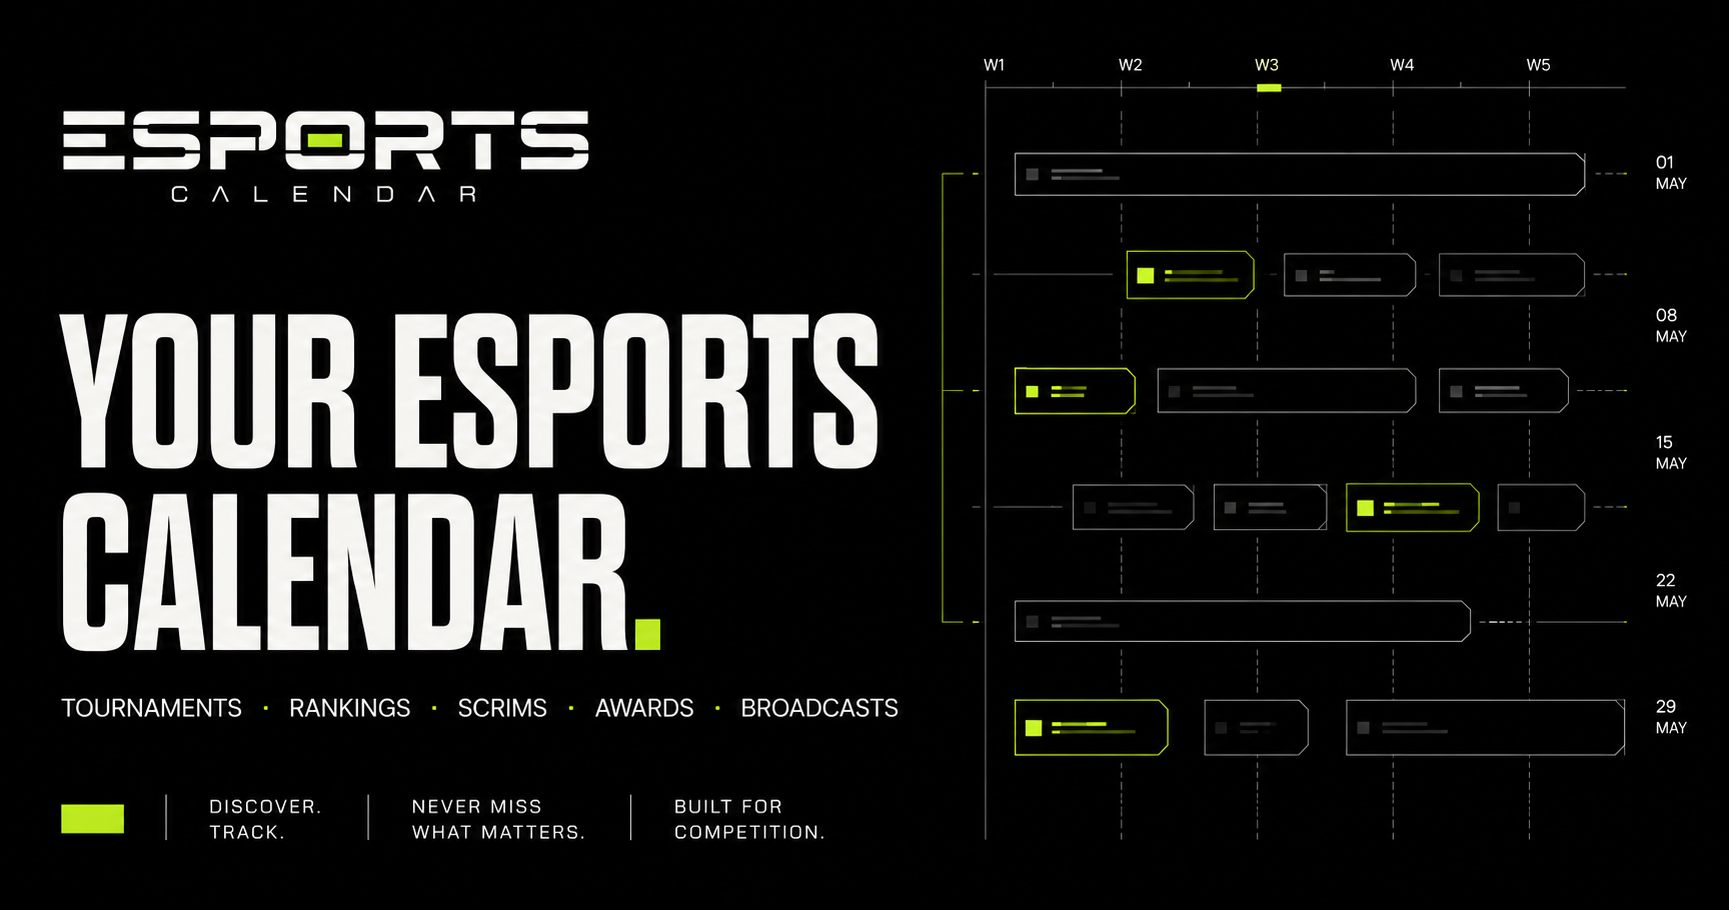
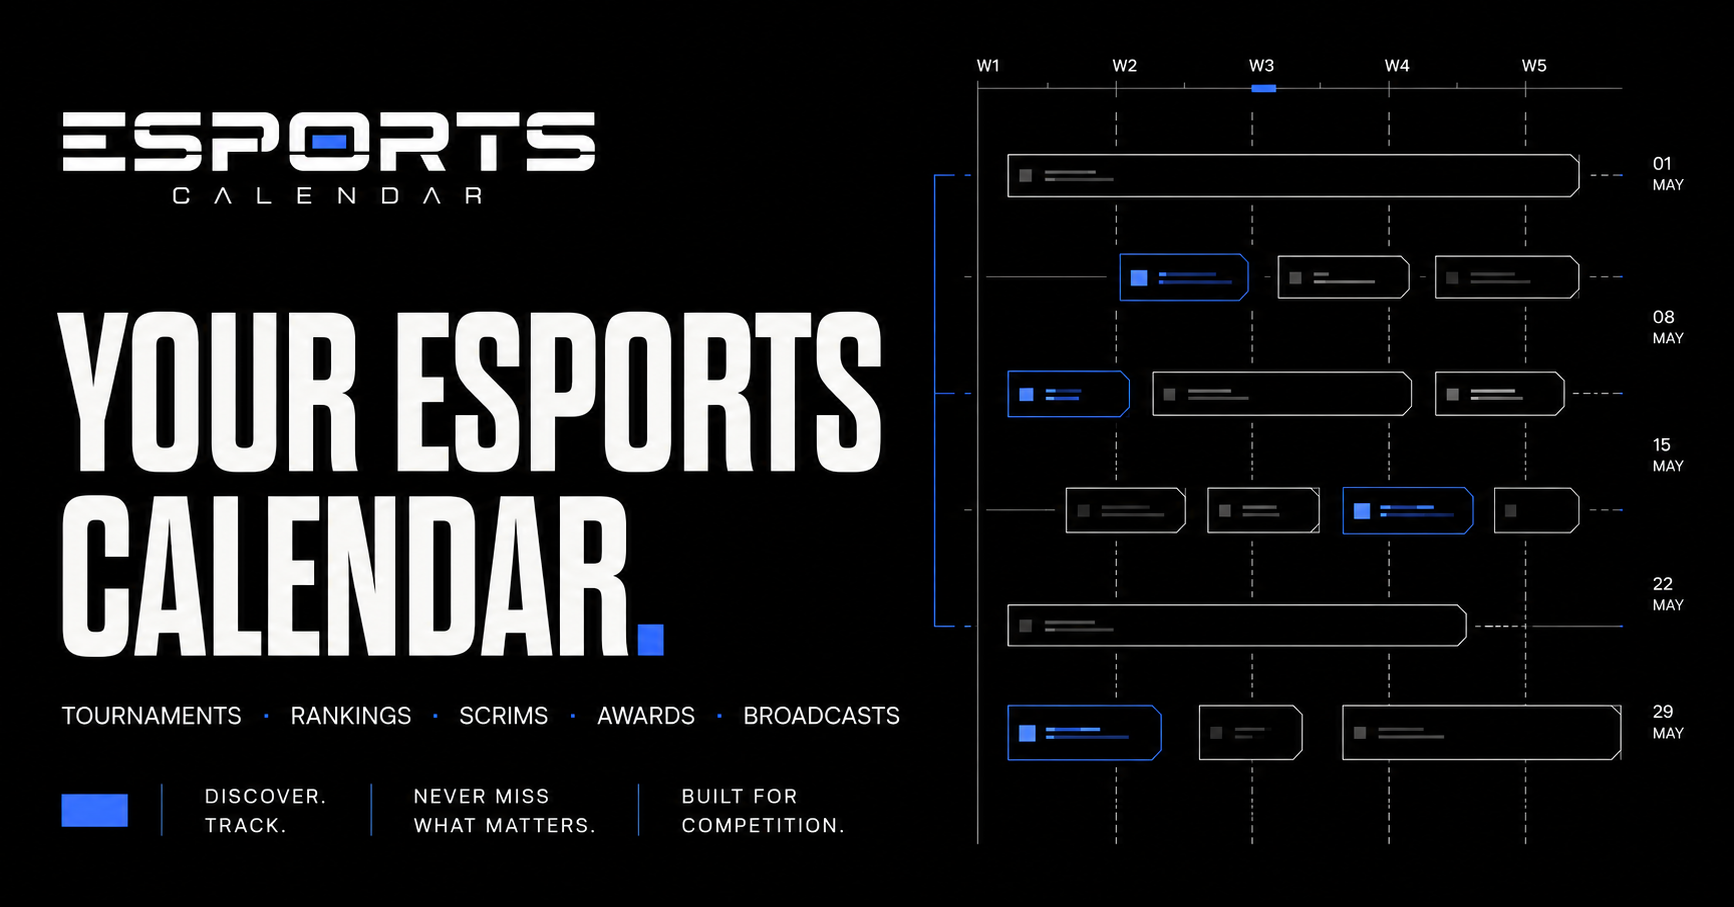
Improve social sharing SEO and Discord teasers

diff --git a/src/lib/discord.ts b/src/lib/discord.ts
@@ -1,19 +1,11 @@
-import { getEventTimes, getEventTimezone } from "@/lib/eventTiming";
 import { CalendarEvent } from "@/types/event";
 
+const SITE_URL = "https://esportscalendar.org";
 const DISCORD_DEFAULT_AVATAR_URL = "https://res.cloudinary.com/id8ciytn/image/upload/v1786622214/esports-calendar/discord/avatar-v2.png";
-const DISCORD_DEFAULT_BANNER_URL = "https://res.cloudinary.com/id8ciytn/image/upload/v1786622216/esports-calendar/discord/banner-v2.jpg";
 
 function getSiteUrl(): string {
-  return (process.env.NEXT_PUBLIC_SITE_URL || "https://esportscalendar.org").replace(/\/$/, "");
+  return (process.env.NEXT_PUBLIC_SITE_URL || SITE_URL).replace(/\/$/, "");
 }
-
-function getBannerUrl(): string {
-  return process.env.DISCORD_BANNER_URL
-    || process.env.NEXT_PUBLIC_SITE_BANNER_URL
-    || DISCORD_DEFAULT_BANNER_URL;
-}
-
 function getAvatarUrl(): string {
   return process.env.DISCORD_AVATAR_URL || DISCORD_DEFAULT_AVATAR_URL;
 }
@@ -24,82 +16,23 @@ function getComponentsWebhookUrl(webhookUrl: string): string {
   return url.toString();
 }
 
-function cleanText(value: string | null | undefined, maxLength = 600): string {
-  return (value || "")
-    .replace(/\r\n?/g, "\n")
-    .replace(/@/g, "@\u200b")
-    .trim()
-    .slice(0, maxLength);
+function cleanText(value: string | null | undefined, maxLength = 180): string {
+  return (value || "").replace(/@/g, "@\u200b").trim().slice(0, maxLength);
 }
 
-function formatDate(date: string): string {
-  const parsed = new Date(`${date}T12:00:00Z`);
-  if (Number.isNaN(parsed.getTime())) return date;
-  return new Intl.DateTimeFormat("en", {
-    day: "numeric",
-    month: "long",
-    year: "numeric",
-    timeZone: "UTC",
-  }).format(parsed);
-}
-
-function formatTime(time: string | null): string | null {
-  if (!time) return null;
-  const [hours, minutes] = time.split(":").map(Number);
-  if (!Number.isFinite(hours) || !Number.isFinite(minutes)) return time;
-  const suffix = hours >= 12 ? "PM" : "AM";
-  return `${hours % 12 || 12}:${String(minutes).padStart(2, "0")} ${suffix}`;
-}
-
-function formatEventDetails(event: CalendarEvent): string {
-  const { startTime, endTime } = getEventTimes(event);
-  const timezone = getEventTimezone(event);
-  const dates = event.startDate === event.endDate
-    ? formatDate(event.startDate)
-    : `${formatDate(event.startDate)} — ${formatDate(event.endDate)}`;
-  const formattedStart = formatTime(startTime);
-  const formattedEnd = formatTime(endTime);
-  const time = formattedStart
-    ? `${formattedStart}${formattedEnd ? ` — ${formattedEnd}` : ""}`
-    : "Time to be announced";
-
-  return [
-    `📅 **Date${event.startDate === event.endDate ? "" : "s"}:** ${dates}`,
-    `🕒 **Time:** ${time} · ${cleanText(timezone, 80)}`,
-    event.game ? `🎮 **Game:** ${cleanText(event.game, 120)}` : null,
-    event.stage ? `🏆 **Stage:** ${cleanText(event.stage, 120)}` : null,
-    event.region ? `🌍 **Region:** ${cleanText(event.region, 120)}` : null,
-  ].filter(Boolean).join("\n");
-}
-
-/** Builds a Discord Components V2 event announcement. */
+/** Builds a deliberately brief Discord teaser that sends readers to the website. */
 export function buildDiscordEventPayload(
   titlePrefix: "New Event" | "Event Updated",
   event: CalendarEvent,
 ) {
-  const categoryUpper = event.category ? event.category.toUpperCase() : "EVENT";
-  const orgName = event.orgName?.trim() || "Community Event";
+  const orgName = cleanText(event.orgName, 120) || "Community Event";
   const directUrl = `${getSiteUrl()}/?event=${encodeURIComponent(event.id)}&date=${encodeURIComponent(event.startDate)}`;
-  const description = cleanText(event.description || event.location?.note);
-  const streamLinks = event.streamLinks
-    .filter((stream) => stream.url?.trim())
-    .slice(0, 3)
-    .map((stream) => `[${cleanText(stream.label || "Watch stream", 40)}](${stream.url.trim()})`)
-    .join(" · ");
-  const intro = titlePrefix === "New Event"
-    ? "A new competition has been added to Esports Calendar. Save the date and follow the event from its opening day."
-    : "This event has been updated on Esports Calendar. Review the latest schedule and event information below.";
   const eventContent = [
-    `## ${titlePrefix === "New Event" ? "New event on the calendar" : "Calendar event updated"}`,
-    `# ${cleanText(event.name, 180)}`,
-    `**${cleanText(orgName, 120)}** · ${categoryUpper}`,
-    "",
-    description || intro,
-  ].join("\n");
-  const detailsContent = [
-    "### Event details",
-    formatEventDetails(event),
-    streamLinks ? `\n📡 **Broadcast:** ${streamLinks}` : null,
+    `## ${titlePrefix === "New Event" ? "New event added" : "Event updated"}`,
+    `# ${cleanText(event.name)}`,
+    `**${orgName}**`,
+    event.game ? `🎮 **Game:** ${cleanText(event.game, 100)}` : null,
+    event.region ? `🌍 **Region:** ${cleanText(event.region, 100)}` : null,
   ].filter(Boolean).join("\n");
 
   return {
@@ -107,49 +40,31 @@ export function buildDiscordEventPayload(
     avatar_url: getAvatarUrl(),
     allowed_mentions: { parse: [] },
     flags: 32768,
-    components: [
-      {
-        type: 17,
-        components: [
-          {
-            type: 12,
-            items: [{
-              media: { url: getBannerUrl() },
-              description: "Esports Calendar",
-            }],
+    components: [{
+      type: 17,
+      components: [
+        {
+          type: 9,
+          components: [{ type: 10, content: eventContent }],
+          accessory: {
+            type: 11,
+            media: { url: event.orgLogoUrl || getAvatarUrl() },
+            description: event.orgLogoUrl ? `${orgName} logo` : "Esports Calendar",
           },
-          { type: 14, divider: true, spacing: 1 },
-          {
-            type: 9,
-            components: [{ type: 10, content: eventContent }],
-            accessory: event.orgLogoUrl
-              ? {
-                  type: 11,
-                  media: { url: event.orgLogoUrl },
-                  description: `${cleanText(orgName, 120)} logo`,
-                }
-              : {
-                  type: 2,
-                  style: 5,
-                  label: "Open event",
-                  url: directUrl,
-                },
-          },
-          { type: 14, divider: true, spacing: 1 },
-          { type: 10, content: detailsContent },
-          {
-            type: 1,
-            components: [{
-              type: 2,
-              style: 5,
-              label: "View event",
-              url: directUrl,
-              emoji: { name: "📅" },
-            }],
-          },
-        ],
-      },
-    ],
+        },
+        { type: 14, divider: true, spacing: 1 },
+        {
+          type: 1,
+          components: [{
+            type: 2,
+            style: 5,
+            label: "View event",
+            url: directUrl,
+            emoji: { name: "📅" },
+          }],
+        },
+      ],
+    }],
   };
 }
 

diff --git a/src/app/layout.tsx b/src/app/layout.tsx
@@ -2,34 +2,62 @@ import type { Metadata, Viewport } from "next";
 import "./globals.css";
 import { AnalyticsTracker } from "@/components/AnalyticsTracker";
 
-const title = "Esports Calendar — Your esports calendar";
-const description = "Discover and track esports tournaments, rankings, scrims, awards and broadcasts in one schedule.";
+const siteUrl = "https://esportscalendar.org";
+const title = "Esports Calendar — Tournaments, Scrims, Rankings & Broadcasts";
+const description = "Discover esports tournaments, rankings, scrims, awards and broadcasts in one global calendar. Follow event schedules and add them to your calendar.";
 
 export const metadata: Metadata = {
-  title,
+  metadataBase: new URL(siteUrl),
+  title: { default: title, template: "%s | Esports Calendar" },
   description,
+  applicationName: "Esports Calendar",
+  authors: [{ name: "Esports Calendar", url: siteUrl }],
+  creator: "Esports Calendar",
+  publisher: "Esports Calendar",
+  category: "esports",
   keywords: [
-    "Esports Calendar",
-    "CODM BR",
-    "Battle Royale Tournaments",
-    "Global Esports",
-    "Scrim Schedule",
-    "Ranking Ladder",
+    "esports calendar",
+    "esports tournaments",
+    "gaming events",
+    "tournament schedule",
+    "esports scrims",
+    "esports rankings",
+    "competitive gaming",
+    "esports broadcasts",
+    "COD Mobile tournaments",
+    "mobile esports",
   ],
+  alternates: { canonical: "/" },
+  manifest: "/manifest.webmanifest",
+  formatDetection: { telephone: false, address: false, email: false },
   icons: {
     icon: [{ url: "/favicon.png", type: "image/png", sizes: "256x256" }],
     apple: [{ url: "/favicon.png", type: "image/png", sizes: "256x256" }],
   },
+  robots: {
+    index: true,
+    follow: true,
+    googleBot: {
+      index: true,
+      follow: true,
+      "max-image-preview": "large",
+      "max-snippet": -1,
+      "max-video-preview": -1,
+    },
+  },
   openGraph: {
     title,
     description,
+    url: "/",
     type: "website",
+    locale: "en",
     siteName: "Esports Calendar",
     images: [{
       url: "/og.png",
-      width: 1729,
-      height: 910,
-      alt: "Esports Calendar — Your esports calendar",
+      width: 1734,
+      height: 907,
+      type: "image/png",
+      alt: "Esports Calendar — your esports calendar for tournaments, rankings, scrims, awards and broadcasts",
     }],
   },
   twitter: {
@@ -37,6 +65,11 @@ export const metadata: Metadata = {
     title,
     description,
     images: ["/og.png"],
+  },
+  appleWebApp: {
+    capable: true,
+    title: "Esports Calendar",
+    statusBarStyle: "black-translucent",
   },
 };
 
@@ -46,21 +79,48 @@ export const viewport: Viewport = {
   maximumScale: 5,
   userScalable: true,
   themeColor: "#050606",
+  colorScheme: "dark",
 };
 
-export default function RootLayout({
-  children,
-}: {
-  children: React.ReactNode;
-}) {
+const structuredData = {
+  "@context": "https://schema.org",
+  "@graph": [
+    {
+      "@type": "Organization",
+      "@id": `${siteUrl}/#organization`,
+      name: "Esports Calendar",
+      url: siteUrl,
+      logo: `${siteUrl}/favicon.png`,
+    },
+    {
+      "@type": "WebSite",
+      "@id": `${siteUrl}/#website`,
+      url: siteUrl,
+      name: "Esports Calendar",
+      description,
+      publisher: { "@id": `${siteUrl}/#organization` },
+      inLanguage: "en",
+    },
+    {
+      "@type": "WebApplication",
+      name: "Esports Calendar",
+      url: siteUrl,
+      applicationCategory: "EntertainmentApplication",
+      operatingSystem: "Any",
+      description,
+      isAccessibleForFree: true,
+    },
+  ],
+};
+
+export default function RootLayout({ children }: { children: React.ReactNode }) {
   return (
     <html lang="en" className="dark">
-      <head>
-        <meta name="mobile-web-app-capable" content="yes" />
-        <meta name="apple-mobile-web-app-capable" content="yes" />
-        <meta name="apple-mobile-web-app-status-bar-style" content="black-translucent" />
-      </head>
-      <body><AnalyticsTracker />{children}</body>
+      <body>
+        <script type="application/ld+json" dangerouslySetInnerHTML={{ __html: JSON.stringify(structuredData) }} />
+        <AnalyticsTracker />
+        {children}
+      </body>
     </html>
   );
 }

diff --git a/src/app/manifest.ts b/src/app/manifest.ts
@@ -1,0 +1,17 @@
+import type { MetadataRoute } from "next";
+
+export default function manifest(): MetadataRoute.Manifest {
+  return {
+    name: "Esports Calendar",
+    short_name: "Esports Calendar",
+    description: "Discover and follow esports tournaments, rankings, scrims, awards and broadcasts.",
+    start_url: "/",
+    display: "standalone",
+    background_color: "#050606",
+    theme_color: "#4F7CFF",
+    icons: [
+      { src: "/favicon.png", sizes: "256x256", type: "image/png", purpose: "any" },
+      { src: "/favicon.png", sizes: "256x256", type: "image/png", purpose: "maskable" },
+    ],
+  };
+}

diff --git a/src/app/robots.ts b/src/app/robots.ts
@@ -1,0 +1,14 @@
+import type { MetadataRoute } from "next";
+
+export default function robots(): MetadataRoute.Robots {
+  return {
+    rules: {
+      userAgent: "*",
+      allow: "/",
+      disallow: ["/admin/", "/api/"],
+    },
+    sitemap: "https://esportscalendar.org/sitemap.xml",
+    host: "https://esportscalendar.org",
+  };
+}
+

diff --git a/src/app/sitemap.ts b/src/app/sitemap.ts
@@ -1,0 +1,11 @@
+import type { MetadataRoute } from "next";
+
+export default function sitemap(): MetadataRoute.Sitemap {
+  return [{
+    url: "https://esportscalendar.org",
+    lastModified: new Date(),
+    changeFrequency: "daily",
+    priority: 1,
+  }];
+}
+
